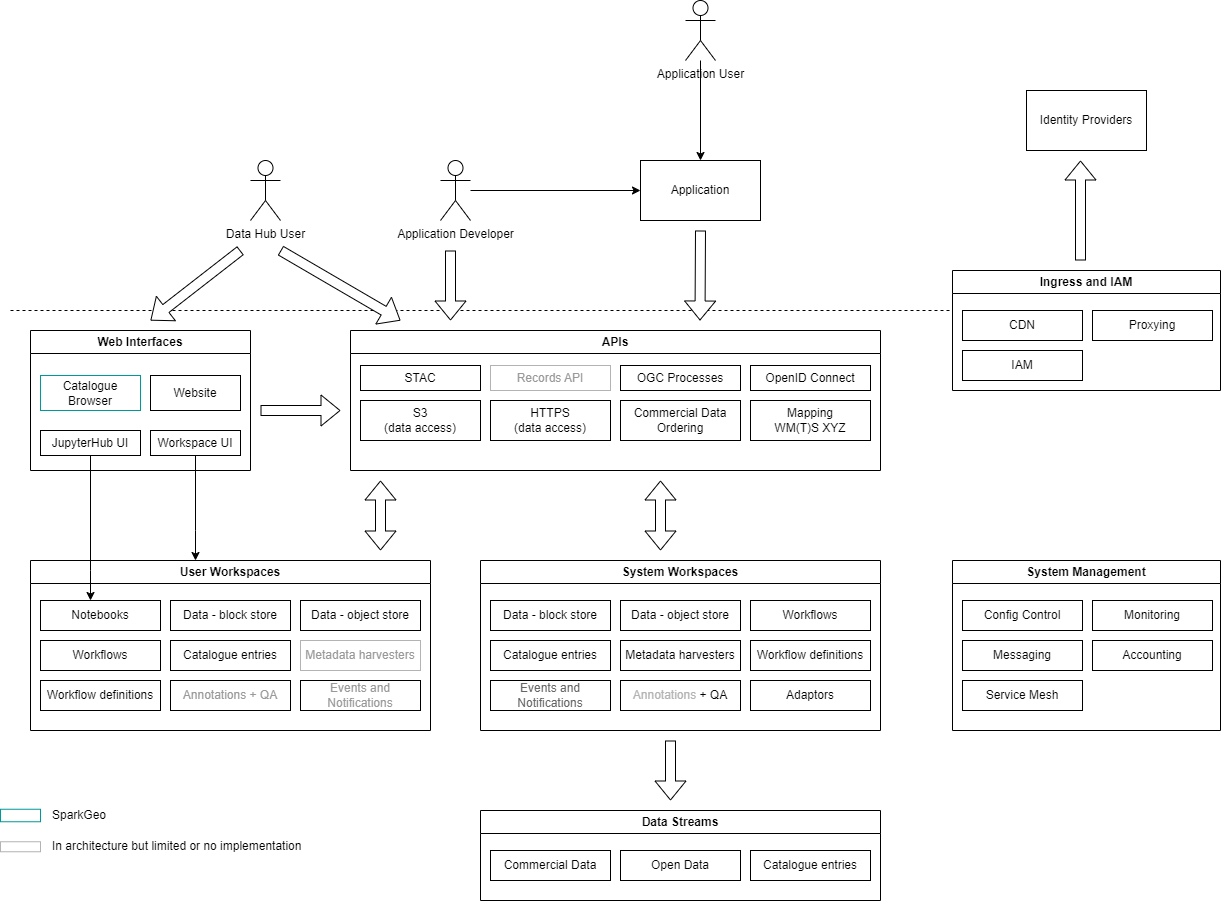
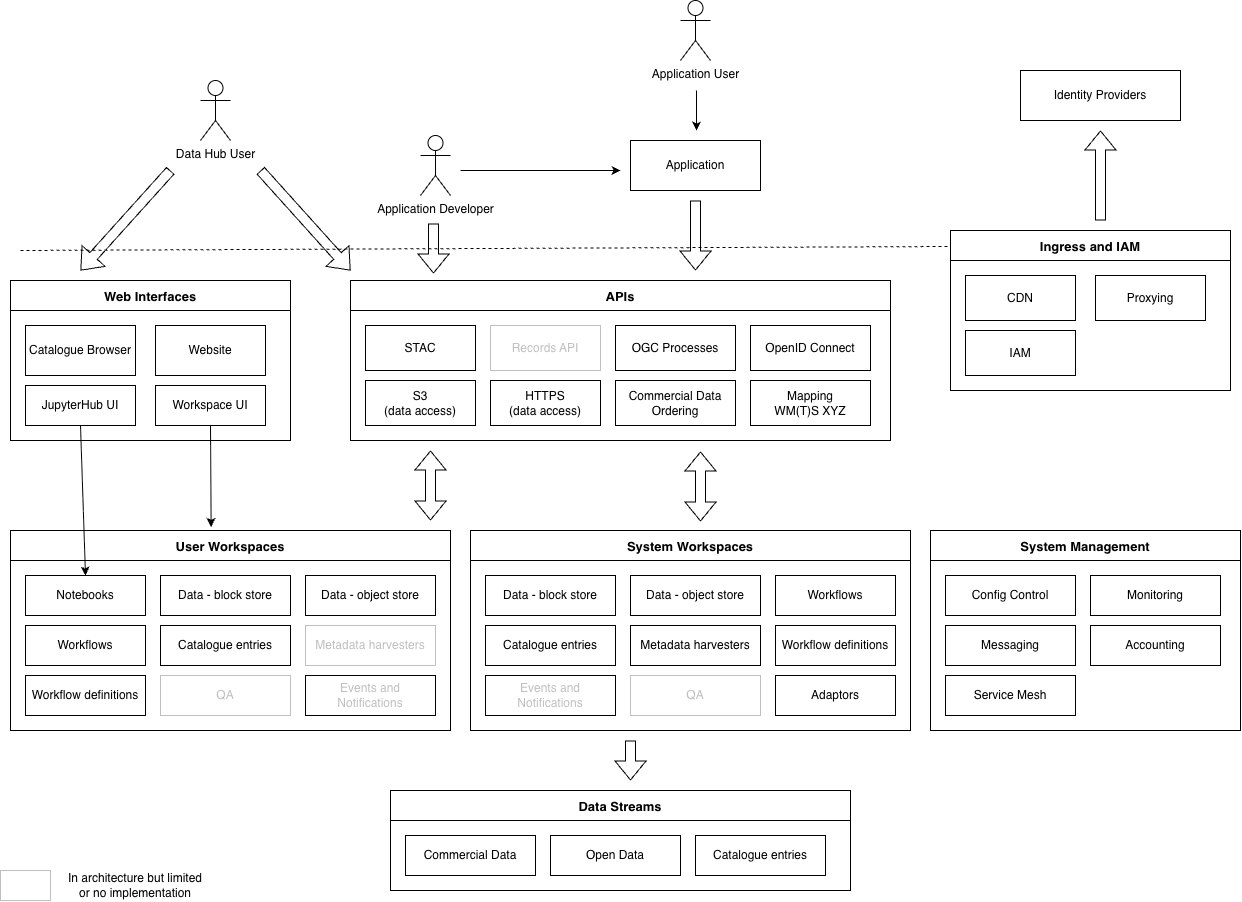
Remove unused PlantUML sources and obsolete figures

diff --git a/docs/architecture/architectural-design/architecture-overview.md b/docs/architecture/architectural-design/architecture-overview.md
@@ -28,154 +28,6 @@ This document concentrates on layers 3, 4 and 5, which are directly part of the 
 
 ![](../figs/fig-3-01-architecture-overview.png)
 
-```kroki-plantuml
-@startuml
-
-hide stereotype
-
-skinparam defaultTextAlignment center
-skinparam backgroundColor white
-skinparam actorBackgroundColor white
-skinparam actorBorderColor black
-skinparam arrowColor #333333
-skinparam nodesep 30
-skinparam ranksep 50
-
-skinparam rectangle {
-  BackgroundColor White
-  BorderColor Black
-}
-
-skinparam rectangle<<faded>> {
-  BackgroundColor White
-  BorderColor DarkGray
-  FontColor DarkGray
-}
-
-skinparam frame {
-  BackgroundColor White
-  BorderColor Black
-}
-
-' ── Actors above the platform boundary ──────────────────────────────
-
-actor "Application\nUser" as AppUser
-
-together {
-  actor "Data Hub\nUser" as HubUser
-  actor "Application\nDeveloper" as AppDev
-  rectangle "Application" as App
-}
-
-AppUser -down-> App
-AppDev -right-> App
-AppUser -[hidden]right-> AppDev
-
-' ── Identity Providers (outside platform, top-right) ─────────────────
-
-rectangle "Identity\nProviders" as IdP
-
-' ── Ingress and IAM ──────────────────────────────────────────────────
-
-frame "Ingress and IAM" as IAM {
-  rectangle "CDN" as CDN
-  rectangle "Proxying" as Proxy
-  rectangle "IAM" as IAMInner
-}
-
-IdP -down-> IAM
-
-' ── Presentation layer ───────────────────────────────────────────────
-
-frame "Web Interfaces" as WebIF {
-  rectangle "Catalogue\nBrowser" as CatBrowser
-  rectangle "Website" as Website
-  rectangle "JupyterHub UI" as JupUI
-  rectangle "Workspace UI" as WorkspaceUI
-}
-
-frame "APIs" as APIs {
-  rectangle "STAC" as STAC
-  rectangle "Records API" <<faded>> as RecordsAPI
-  rectangle "OGC Processes" as OGCProc
-  rectangle "OpenID Connect" as OIDC
-  rectangle "S3\n(data access)" as S3
-  rectangle "HTTPS\n(data access)" as HTTPS
-  rectangle "Commercial Data\nOrdering" as CommOrder
-  rectangle "Mapping\nWM(T)S XYZ" as Mapping
-}
-
-WebIF -right-> APIs
-
-HubUser -down-> WebIF
-HubUser -down-> APIs
-AppDev  -down-> APIs
-App     -down-> APIs
-
-' ── Workspace and management layer ───────────────────────────────────
-
-frame "User Workspaces" as UW {
-  rectangle "Notebooks" as Notebooks
-  rectangle "Data - block store" as UWBlock
-  rectangle "Data - object store" as UWObject
-  rectangle "Workflows" as UWFlows
-  rectangle "Catalogue entries" as UWCat
-  rectangle "Metadata harvesters" <<faded>> as UWHarv
-  rectangle "Workflow definitions" as UWDefs
-  rectangle "Annotations + QA" <<faded>> as UWAnnot
-  rectangle "Events and\nNotifications" <<faded>> as UWEvents
-}
-
-frame "System Workspaces" as SW {
-  rectangle "Data - block store" as SWBlock
-  rectangle "Data - object store" as SWObject
-  rectangle "Workflows" as SWFlows
-  rectangle "Catalogue entries" as SWCat
-  rectangle "Metadata harvesters" as SWHarv
-  rectangle "Workflow definitions" as SWDefs
-  rectangle "Events and\nNotifications" as SWEvents
-  rectangle "Annotations + QA" <<faded>> as SWAnnot
-  rectangle "Adaptors" as SWAdapt
-}
-
-frame "System Management" as SM {
-  rectangle "Config Control" as ConfigCtrl
-  rectangle "Monitoring" as Monitoring
-  rectangle "Messaging" as Messaging
-  rectangle "Accounting" as Accounting
-  rectangle "Service Mesh" as ServiceMesh
-}
-
-APIs <-down-> UW
-APIs <-down-> SW
-
-' ── Data Streams ──────────────────────────────────────────────────────
-
-frame "Data Streams" as DS {
-  rectangle "Commercial Data" as DSComm
-  rectangle "Open Data" as DSOpen
-  rectangle "Catalogue entries" as DSCat
-}
-
-SW -down-> DS
-
-' ── Layout hints ─────────────────────────────────────────────────────
-
-HubUser -[hidden]right-> AppDev
-WebIF   -[hidden]right-> APIs
-APIs    -[hidden]right-> IAM
-UW      -[hidden]right-> SW
-SW      -[hidden]right-> SM
-
-' ── Legend ───────────────────────────────────────────────────────────
-
-legend bottom left
-  |= Symbol |= Meaning |
-  | <font color="DarkGray">░░░</font> | In architecture but limited or no implementation |
-end legend
-
-@enduml
-```
 
 **Figure 3-1 Architecture Overview**
 
